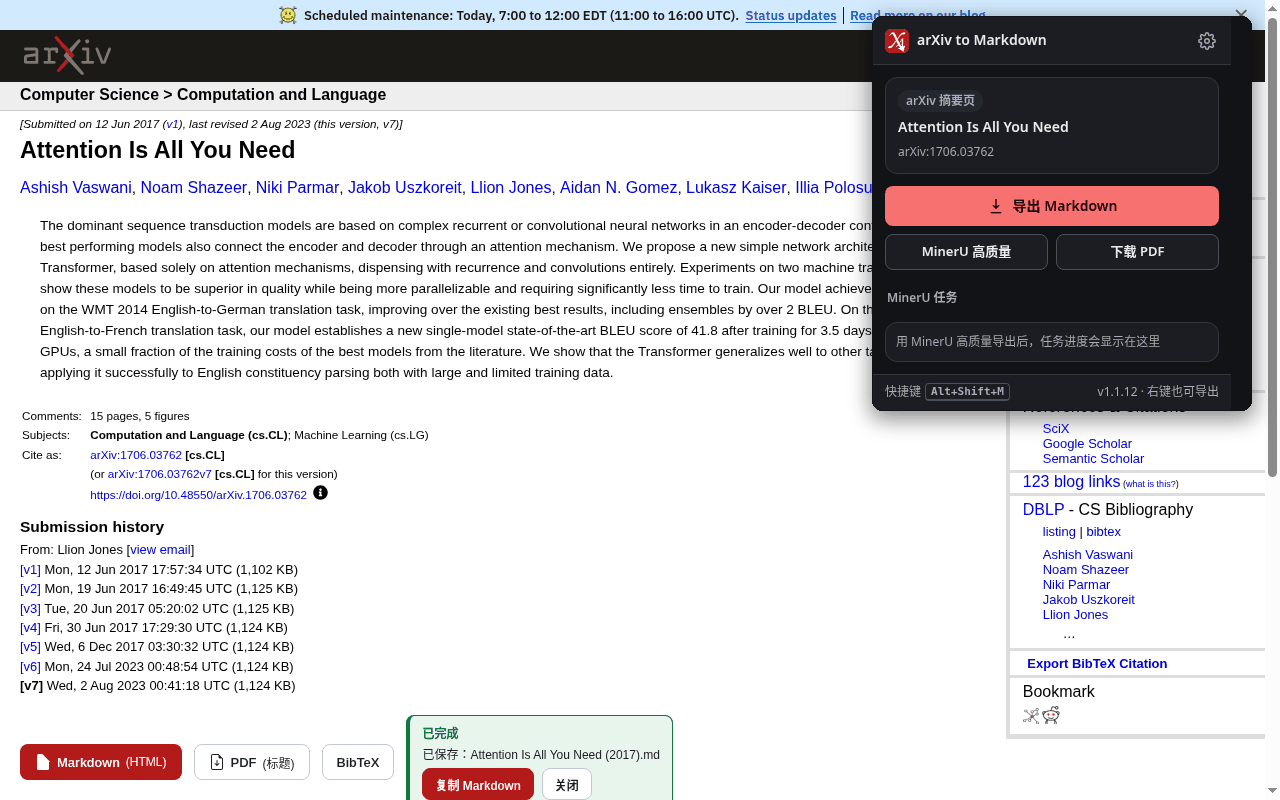
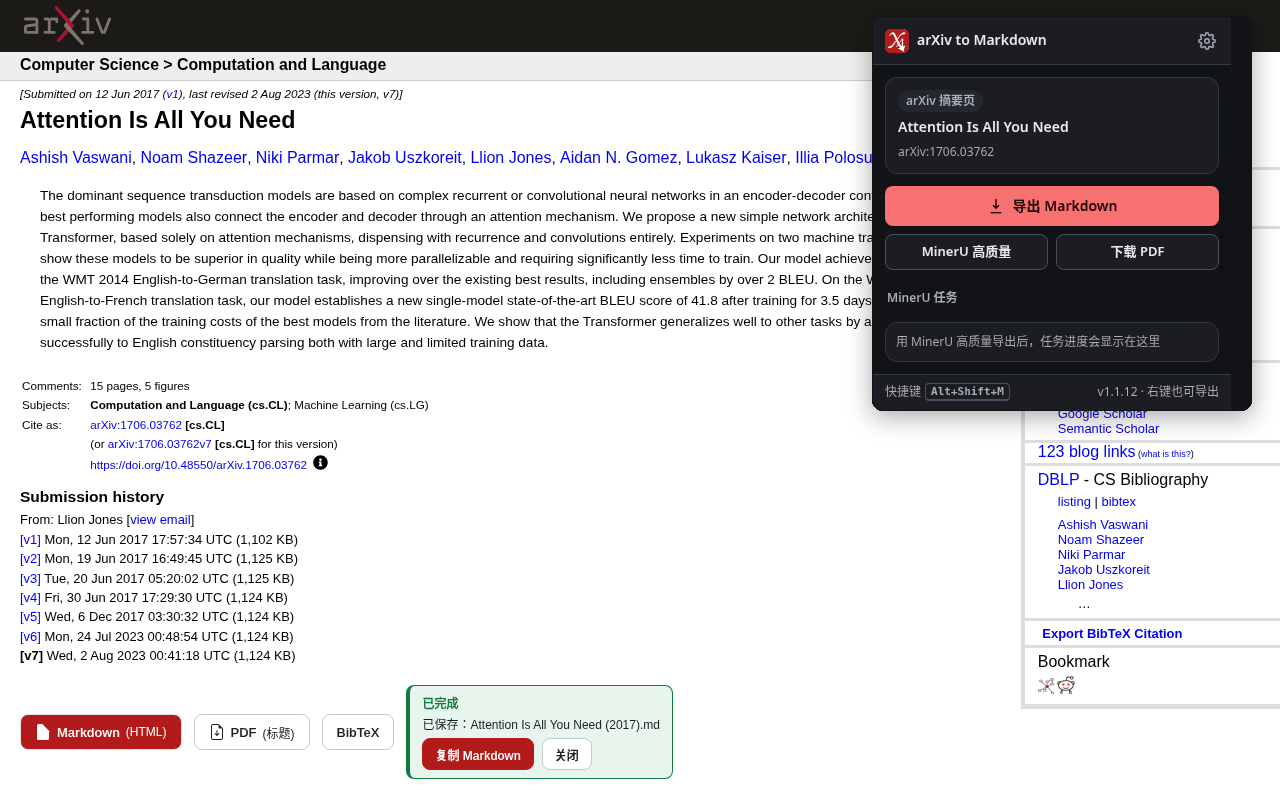
docs: fix storage/sync wording, add <picture> dark hero, retake screenshots, PRIVACY alarms/contextMenus

Changed region(s): [[0.0, 0.0, 1.0, 1.0]]

diff --git a/README.md b/README.md
@@ -12,7 +12,10 @@
 
 [Install](https://chromewebstore.google.com/detail/arxiv-to-markdown/pphdggfbjddgdljndgdablkhbdpbfnbd) · [中文说明](./README_CN.md) · [FAQ](./docs/FAQ.md) · [Privacy](./PRIVACY.md) · [Changelog](./CHANGELOG.md)
 
-<img src="docs/screenshots/hero-light.png" width="860" alt="Export buttons on an arXiv abstract page, with the extension popup">
+<picture>
+  <source media="(prefers-color-scheme: dark)" srcset="docs/screenshots/hero-dark.png">
+  <img src="docs/screenshots/hero-light.png" width="860" alt="Export buttons on an arXiv abstract page, with the extension popup">
+</picture>
 
 </div>
 
@@ -23,7 +26,7 @@
 - **One-click Markdown export**: adds `Markdown`, `PDF` and `BibTeX` buttons under `Submission history` on arXiv abstract pages.
 - **Official HTML first**: converts arXiv's official HTML version, falls back to ar5iv, and downloads the PDF when neither is available.
 - **Keeps math and structure**: LaTeX stays as `$...$` / `$$...$$`; simple tables become GFM, tables with merged cells stay as HTML; in-text citations link to the numbered references and footnotes become `[^n]`.
-- **Optional YAML frontmatter**: `title`, `arxiv_id`, `source`, `authors`, `year` for Obsidian, Logseq and similar tools.
+- **Optional YAML frontmatter**: `title`, `arxiv_id`, `source`, `authors`, `year` for Obsidian, Logseq, Zotero and similar tools.
 - **PDFs named by title**: `Attention Is All You Need (2017).pdf` instead of `1706.03762.pdf`.
 - **Copy BibTeX**: uses arXiv's official citation, or builds one from the page title, authors and year.
 - **Copy for AI or notes**: after a conversion, a result card on the page offers "Copy Markdown".
@@ -81,7 +84,7 @@ Open `chrome://extensions`, enable Developer mode, click "Load unpacked" and pic
 | Desktop notifications | Notify when a MinerU task finishes or fails |
 | PDF floating button | Show the floating button on PDF pages |
 | Language | 中文 / English |
-| Usage statistics | Local counters only; can be reset |
+| Usage statistics | Conversion counters kept in `chrome.storage.sync` (synced with your browser account if sync is on), never uploaded; can be reset |
 
 Changes are saved automatically.
 
@@ -89,7 +92,7 @@ Changes are saved automatically.
 
 | Permission | Why |
 | --- | --- |
-| `storage` | Saves settings, your MinerU token and the task list in your browser |
+| `storage` | Settings, your MinerU token and usage statistics are kept in `chrome.storage.sync`, so they sync with your browser account if browser sync is on; MinerU task state stays in `chrome.storage.local` on this device |
 | `downloads` | Saves Markdown, PDF or MinerU ZIP files |
 | `activeTab` | Reads the arXiv page you are on so it can be converted |
 | `notifications` | Desktop notice when a MinerU task finishes or fails |
@@ -98,6 +101,7 @@ Changes are saved automatically.
 | `arxiv.org`, `export.arxiv.org` | Paper HTML, metadata and PDF |
 | `ar5iv.org`, `ar5iv.labs.arxiv.org` | ar5iv fallback when official HTML is missing |
 | `mineru.net`, `cdn-mineru.openxlab.org.cn` | Only when you use MinerU: submit tasks and download results |
+| Content script on `arxiv.org/abs/*`, `arxiv.org/pdf/*`, `arxiv.org/html/*` | Adds the page buttons, result card and PDF floating button on those pages |
 
 ## Privacy
 

diff --git a/README_CN.md b/README_CN.md
@@ -12,7 +12,10 @@
 
 [安装](https://chromewebstore.google.com/detail/arxiv-to-markdown/pphdggfbjddgdljndgdablkhbdpbfnbd) · [English](./README.md) · [常见问题](./docs/FAQ.md) · [隐私说明](./PRIVACY.md) · [更新日志](./CHANGELOG.md)
 
-<img src="docs/screenshots/hero-light.png" width="860" alt="arXiv 摘要页上的导出按钮和扩展弹窗">
+<picture>
+  <source media="(prefers-color-scheme: dark)" srcset="docs/screenshots/hero-dark.png">
+  <img src="docs/screenshots/hero-light.png" width="860" alt="arXiv 摘要页上的导出按钮和扩展弹窗">
+</picture>
 
 </div>
 
@@ -79,7 +82,7 @@ npm run build
 | 桌面通知 | MinerU 任务完成或失败时通知 |
 | PDF 页悬浮按钮 | 是否在 PDF 页显示悬浮转换按钮 |
 | 界面语言 | 中文 / English |
-| 使用统计 | 只在本地计数（转换次数等），可一键重置 |
+| 使用统计 | 转换次数等计数存在 `chrome.storage.sync`（开启浏览器同步时会随账号同步），不会上传，可一键重置 |
 
 设置改动会自动保存。
 
@@ -87,7 +90,7 @@ npm run build
 
 | 权限 | 用途 |
 | --- | --- |
-| `storage` | 保存设置、MinerU Token 和任务列表，只存在你的浏览器里 |
+| `storage` | 设置、MinerU Token 和使用统计存在 `chrome.storage.sync`，开启浏览器同步时会随浏览器账号同步；MinerU 任务状态存在 `chrome.storage.local`，只留在本机 |
 | `downloads` | 把 Markdown、PDF 或 MinerU 结果 ZIP 保存到本地 |
 | `activeTab` | 读取你当前打开的 arXiv 页面，用于转换 |
 | `notifications` | MinerU 后台任务完成或失败时发桌面通知 |
@@ -96,6 +99,7 @@ npm run build
 | `arxiv.org`、`export.arxiv.org` | 读取论文 HTML、元数据和 PDF |
 | `ar5iv.org`、`ar5iv.labs.arxiv.org` | 官方 HTML 不可用时读取 ar5iv 版本 |
 | `mineru.net`、`cdn-mineru.openxlab.org.cn` | 仅在你使用 MinerU 时提交任务、下载结果 |
+| 内容脚本：`arxiv.org/abs/*`、`arxiv.org/pdf/*`、`arxiv.org/html/*` | 在这些页面注入导出按钮、结果卡片和 PDF 页悬浮按钮 |
 
 ## 隐私
 

diff --git a/PRIVACY.md b/PRIVACY.md
@@ -88,6 +88,8 @@ MinerU then processes that paper on its own service and returns a ZIP result URL
 | `downloads` | Save Markdown, PDF, and MinerU ZIP results |
 | `activeTab` | Read metadata from the current arXiv page |
 | `notifications` | Show optional task and completion notifications |
+| `alarms` | Periodically wake the background worker while MinerU tasks are running, to poll their progress; cleared when no task is active |
+| `contextMenus` | Add right-click menu items on arXiv abs/pdf/html pages and on links to arXiv papers |
 
 ## Your Choices
 
